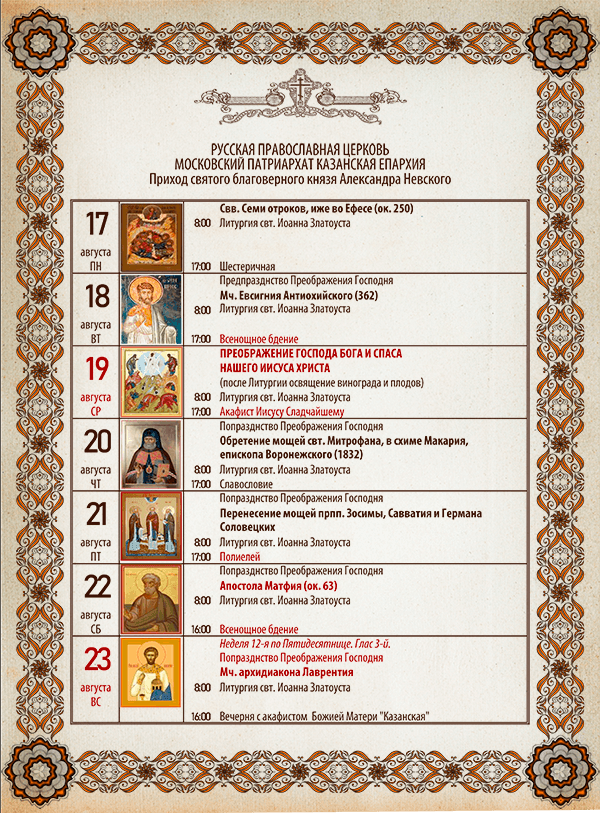
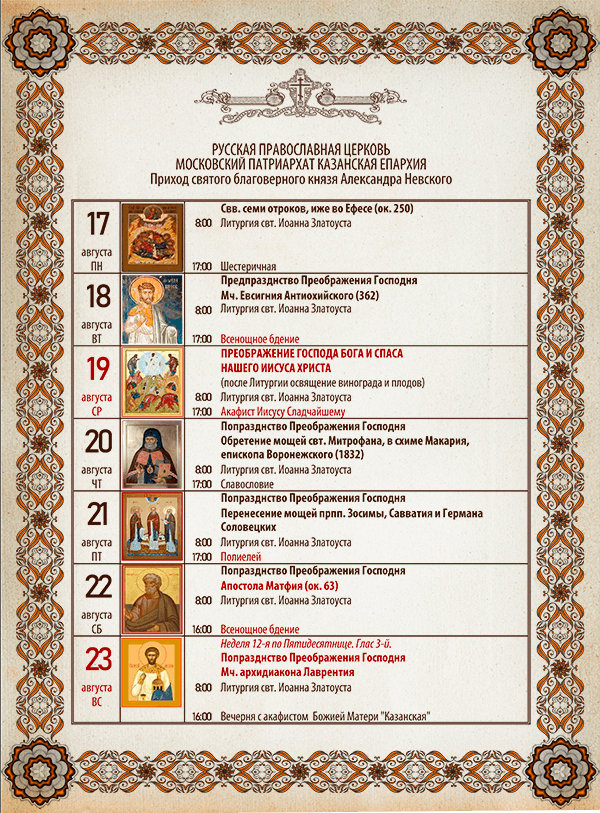
12 седмица по 50це

Changed region(s): [[0.12, 0.1538, 0.81, 0.8918], [0.87, 0.246, 0.9, 0.8918]]

diff --git a/index.html b/index.html
@@ -76,61 +76,41 @@
 
   <article id="mainArticle"><!--Статья-->
     <!--ОСНОВНОЙ ИЗМЕНЯЕМЫЙ КОНТЕНТ-->
-    <h1 class="block_title">Особенности седмицы с 10 по 16 августа</h1>
-    <time>09.08.26 &bull; 3 мин. на чтение</time>
+    <h1 class="block_title">Особенности седмицы с 17 по 23 августа</h1>
+    <time>16.08.26 &bull; 3 мин. на чтение</time>
     <p class="block_text">
       <!--<p align="center" style="font-size:32px ; font-weight:400; font-family: Monomakh, sans-serif; color: #a00;">Христос
       Воскресе!</p>-->
     <p class="left_letter">П</p>
     <p class="block_text">
-      родолжается это замечательное жаркое лето, просим ознакомиться с событиями второй августовской седмицы.
+      родолжается строгий Успенский пост, и просим ознакомиться с событиями третьей августовской седмицы.
     </p>
 
     <div class="img-content-box">
       <img class="img-content" src="img\amain_img\малхрам.png" alt="Фото">
       <br><br>
-      <button class="gray-button" type="button"><a href="img\amain_img\11 седмица по 50_900.png">Посмотреть
+      <button class="gray-button" type="button"><a href="img\amain_img\12 седмица по 50_900.png">Посмотреть
           расписание</a></button>
     </div>
 
     <p class="block_text">
-    <p class="left_letter">П</p>онедельник, 10 августа, установлено празднование в честь чудотворной Смоленской иконы
-    Божией Матери, Одигитрии ("Путеводительница"). В этот день 980 лет назад святыня была принесена из столицы древней
-    Византии на Русь. Тогда греческий император благословил этим образом на путь свою дочь Анну, которую выдал замуж за
-    князя Всеволода, сына великого князя Ярослава Мудрого. Позже икона перешла к князю Владимиру Мономаху и была
-    принесена в Смоленский храм Успения Пресвятой Богородицы. Так святыня, написанная, по преданию, святым апостолом
-    Лукой и явившая множество чудотворений, обрела своё наименование - Смоленская. За почти тысячелетие чудотворная
-    икона стала одной из главных святынь Русской Православной Церкви.
+    <p class="left_letter">В</p>торник, 18 августа. Предпразднство Преображения Господня. Вечером совершается всенощное бдение. Священники служат в белом облачении, напоминающем о нетварном свете, озарившим Господа на горе Фавор.
     <br><br>
-    Седмиезерная икона принадлежит к числу икон, пользующихся чрезвычайным почитанием в местах ее нахождения. День
-    празднования в честь нее является торжеством не только для Седмиезерной пустыни и Казани, но и для всего Прикамского
-    Поволжья.
-    <br><br>
-    <p class="left_letter">В</p>торник, 11 августа, большой праздник. Мы будем молитвенно праздновать Рождество одного
-    из любимейших святых нашего народа - святителя Николая Чудотворца, Мирликийского Чудотворца.
-    <br><br>
-    <p class="left_letter">Ч</p>етверг, 13 августа - предпразднство Изнесения Честных Древ Животворящего Креста
-    Господня. В этот день на середину храма выносится Крест для поклонения верующих, а также происходит заговенье на
-    Успенский пост. Поэтому в этот день верующие стараются взять благословение на 2 недели благочестивого говения и
-    покаяния.
-    <br><br>
-    <p class="left_letter">П</p>ятница, 14 августа празднуется Изнесение (Происхождение) Честных Древ Животворящего
-    Креста Господня. Это первый из трёх "Спасов", которые празднуются в августе, - Медовый. В Русской Православной
-    Церкви этот праздник соединился с воспоминанием о Крещении Руси, которое произошло 1 августа (по старому стилю) 988
-    года. По традиции, совершается малое освящение воды и источников, благословляется мёд нового урожая.
-    <br><br>
-    В этот день начинается 14-дневный Успенский пост, который духовно готовит верующих к празднованию Успения Пресвятой
-    Богородицы.
-    <br><br>
-    <p class="left_letter">С</p>уббота, 15 августа Святая Церковь молитвенно чтит первомученика Стефана, перенесение
-    мощей из Иерусалима в Константинополь, произошло это примерно в 428 году. Стефан был старшим среди семи диаконов,
-    поставленных самими апостолами, поэтому его называют архидиаконом. Он был христианским первомучеником и пострадал за
-    Христа в возрасте около 30 лет. По выражению Астерия, это был "начаток мучеников, учитель страданий за Христа,
-    основание доброго исповедания", ибо прежде Стефана никто не изливал крови своей за Евангелие.
-    <br><br>
-    <p class="left_letter">В</p>оскресенье, 16 августа, мы молитвенно чтим преподобного Антония Римлянина, Новгородского
-    чудотворца. В такой же день 1147 года святой подвижник и молитвенник завершил свою земную жизнь. Он был
-    канонизирован спустя более 4 веков, когда были обретены его честные мощи.
+    <p class="left_letter">С</p>реда, 19 августа, - один из 12 главных праздников года - Преображение Господне. Служится Божественная Литургия. Церковь вспоминает евангельское событие, когда Спаситель с ближайшими учениками поднялся на гору Фавор и преобразился перед ними в небесном сиянии, явив Божественную сущность. После богослужения в храмах с благодарностью Богу освящаются плоды нового урожая - яблоки, виноград. Поэтому в народе праздник называется Яблочным Спасом. У Преображения Господня один день предпразднства и 7 дней попразднства. Отдание, то есть завершение праздника, - 26 августа.
+<br><br>
+<p class="left_letter">Ч</p>етверг, 20 августа, мы молитвенно чтим свт. Митрофана Воронежского – выдающегося архипастыря XVII века. Родился во Владимирской земле, 40 лет прожил в миру, овдовев, принял монашество. Строил храмы, боролся с расколом. Поддерживал реформы Петра I, но принципиально отстаивал православные традиции. Перед кончиной принял схиму с именем Макарий. Прославлен в 1832 году. Его святые мощи стали источником многих чудес.
+<br><br>
+Также в этот день мы молитвенно чтим одного из прославленных Оптинских старцев - преподобного Антония Оптинского. Он был основателем Иоанно-Предтеченского скита, которым руководил четверть века. Стяжал дары прозорливости и молитвы. Почил в августе 1865 года.
+<br><br>
+<p class="left_letter">П</p>ятница, 21 августа, Церковь вспоминает события 1566 года - перенесение честных мощей святых основателей Соловецкой обители - преподобных Зосимы и Савватия Соловецких. Они прославились праведностью, суровостью поста и аскезы, прозорливостью и чудотворениями.
+<br><br>
+<p class="left_letter">С</p>уббота, 22 августа, Церковь молитвенно чтит святого апостола Матфия. После предательства Иуды он был избран по жребию из 70 последователей Христа и вошёл в число 12 апостолов. Проповедовал в Иудее, Сирии, Малой Азии, совершал чудеса. Был жестоко убит язычниками.
+<br><br>
+<p class="left_letter">В</p>оскресенье, 23 августа, Святая Церковь вспоминает святого мученика архидиакона Лаврентия. Основные подробности жизни святого узнаем из того, что поведали нам святые Амвросий Медиоланский, Августин, Папа Лев Великий и поэт Пруденций, по мнению которого, смерть Лаврентия стала смертью римского идолопоклонства, которое с тех пор пришло в упадок. Его мученичество произвело глубокое впечатление на Церковь и было использовано Богом как великое вдохновение к святости на протяжении веков. Это было время, когда избрание на высокое служение означало не столько почёт, сколько неизбежность страданий и смерти. Архидиакона предали изощреннейшим пыткам, сожгли на решетке, но не открытым пламенем, а горячими углями, чтобы замедлить пытки, но он не отступил от своей веры. Один из воинов видел рядом с ним ангела, отирающего раны мученика.
+<br><br>
+Также это день Валаамских святых. Церковь молитвенно чтит духовные подвиги 49 святых игуменов и монахов знаменитого Валаамского монастыря.
+<br><br>
+И еще в этот день мы будем вспоминать Соловецких новомучеников и исповедников, приговорённых богоборцами к тяжёлым испытаниям и смерти, но не предавших веру и Бога.
     </p>
     <!--КОНЕЦ ОСНОВНОГО ИЗМЕНЯЕМОГО КОНТЕНТА-->
   </article>

diff --git a/raspisanie.html b/raspisanie.html
@@ -82,18 +82,6 @@
 
         <div class="paspartu">
           <h1 class="block_subtitle" style="color: rgb(0, 0, 0)">
-            11-я седмица по Пятидесятнице
-          </h1>
-          <a href="img\amain_img\11 седмица по 50_900.png"
-            ><img
-              class="img_hover"
-              src="img\amain_img\11 седмица по 50_600.png"
-              alt="Расписание Богослужений"
-          /></a>
-        </div>
-
-        <div class="paspartu">
-          <h1 class="block_subtitle" style="color: rgb(0, 0, 0)">
             12-я седмица по Пятидесятнице
           </h1>
           <a href="img\amain_img\12 седмица по 50_900.png"
